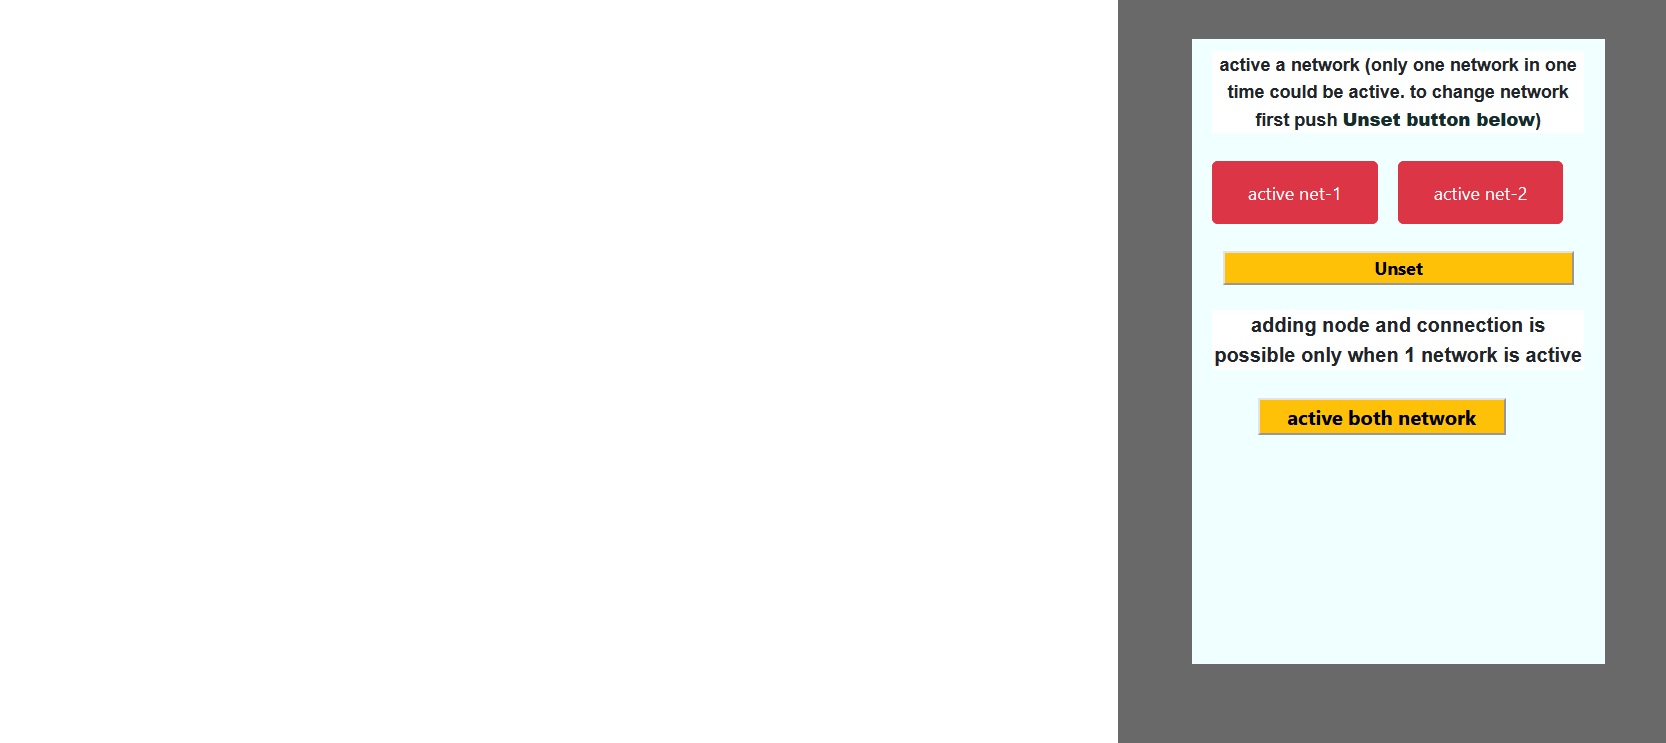
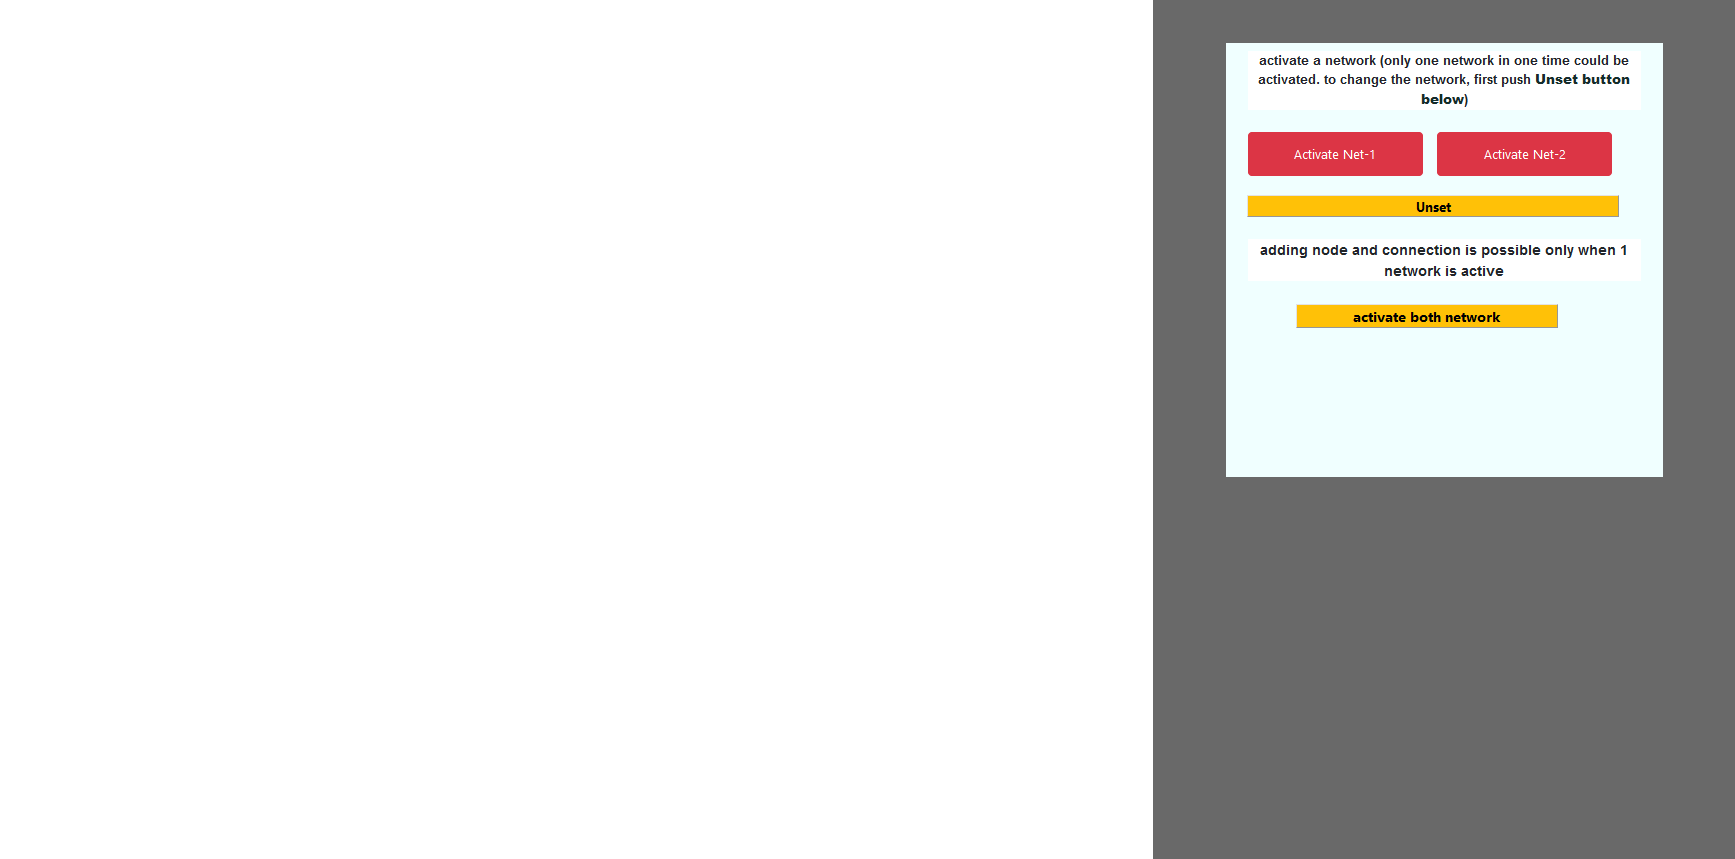
change pictures

Changed region(s): [[0.6555, 0.0, 0.9676, 1.0]]

diff --git a/index.html b/index.html
@@ -730,12 +730,12 @@
 
           <div class="col-4" style="background-color:dimgray; text-align:center;">
             <div class="pick_model">
-              <b><p class="choose-network-text">active a network (only one network in one time could be actived. to change network, first push <b style="color:#142d2b">Unset button below</b>)</p></b>
-              <button type="button" class="btn btn-danger btn-lg btn-net-1" >Activate the Net-1</button>
-              <button type="button" class="btn btn-danger btn-lg btn-net-2" >Activate the Net-2</button>
+              <b><p class="choose-network-text">activate a network (only one network in one time could be activated. to change the network, first push <b style="color:#142d2b">Unset button below</b>)</p></b>
+              <button type="button" class="btn btn-danger btn-lg btn-net-1" >Activate Net-1</button>
+              <button type="button" class="btn btn-danger btn-lg btn-net-2" >Activate Net-2</button>
               <button type="button" class="unset-net"><b>Unset</b></button>
               <b><p class="warning">adding node and connection is possible only when 1 network is active</p></b>
-              <button type="button" class="keep-btn"><b>active both network</b></button>
+              <button type="button" class="keep-btn"><b>activate both network</b></button>
             </div>
             <button type="button" class="btn btn-danger btn-lg add-node-btn" >add node</button>
             <button type="button" class="btn btn-danger btn-lg add-connect-btn" >add connect</button>
